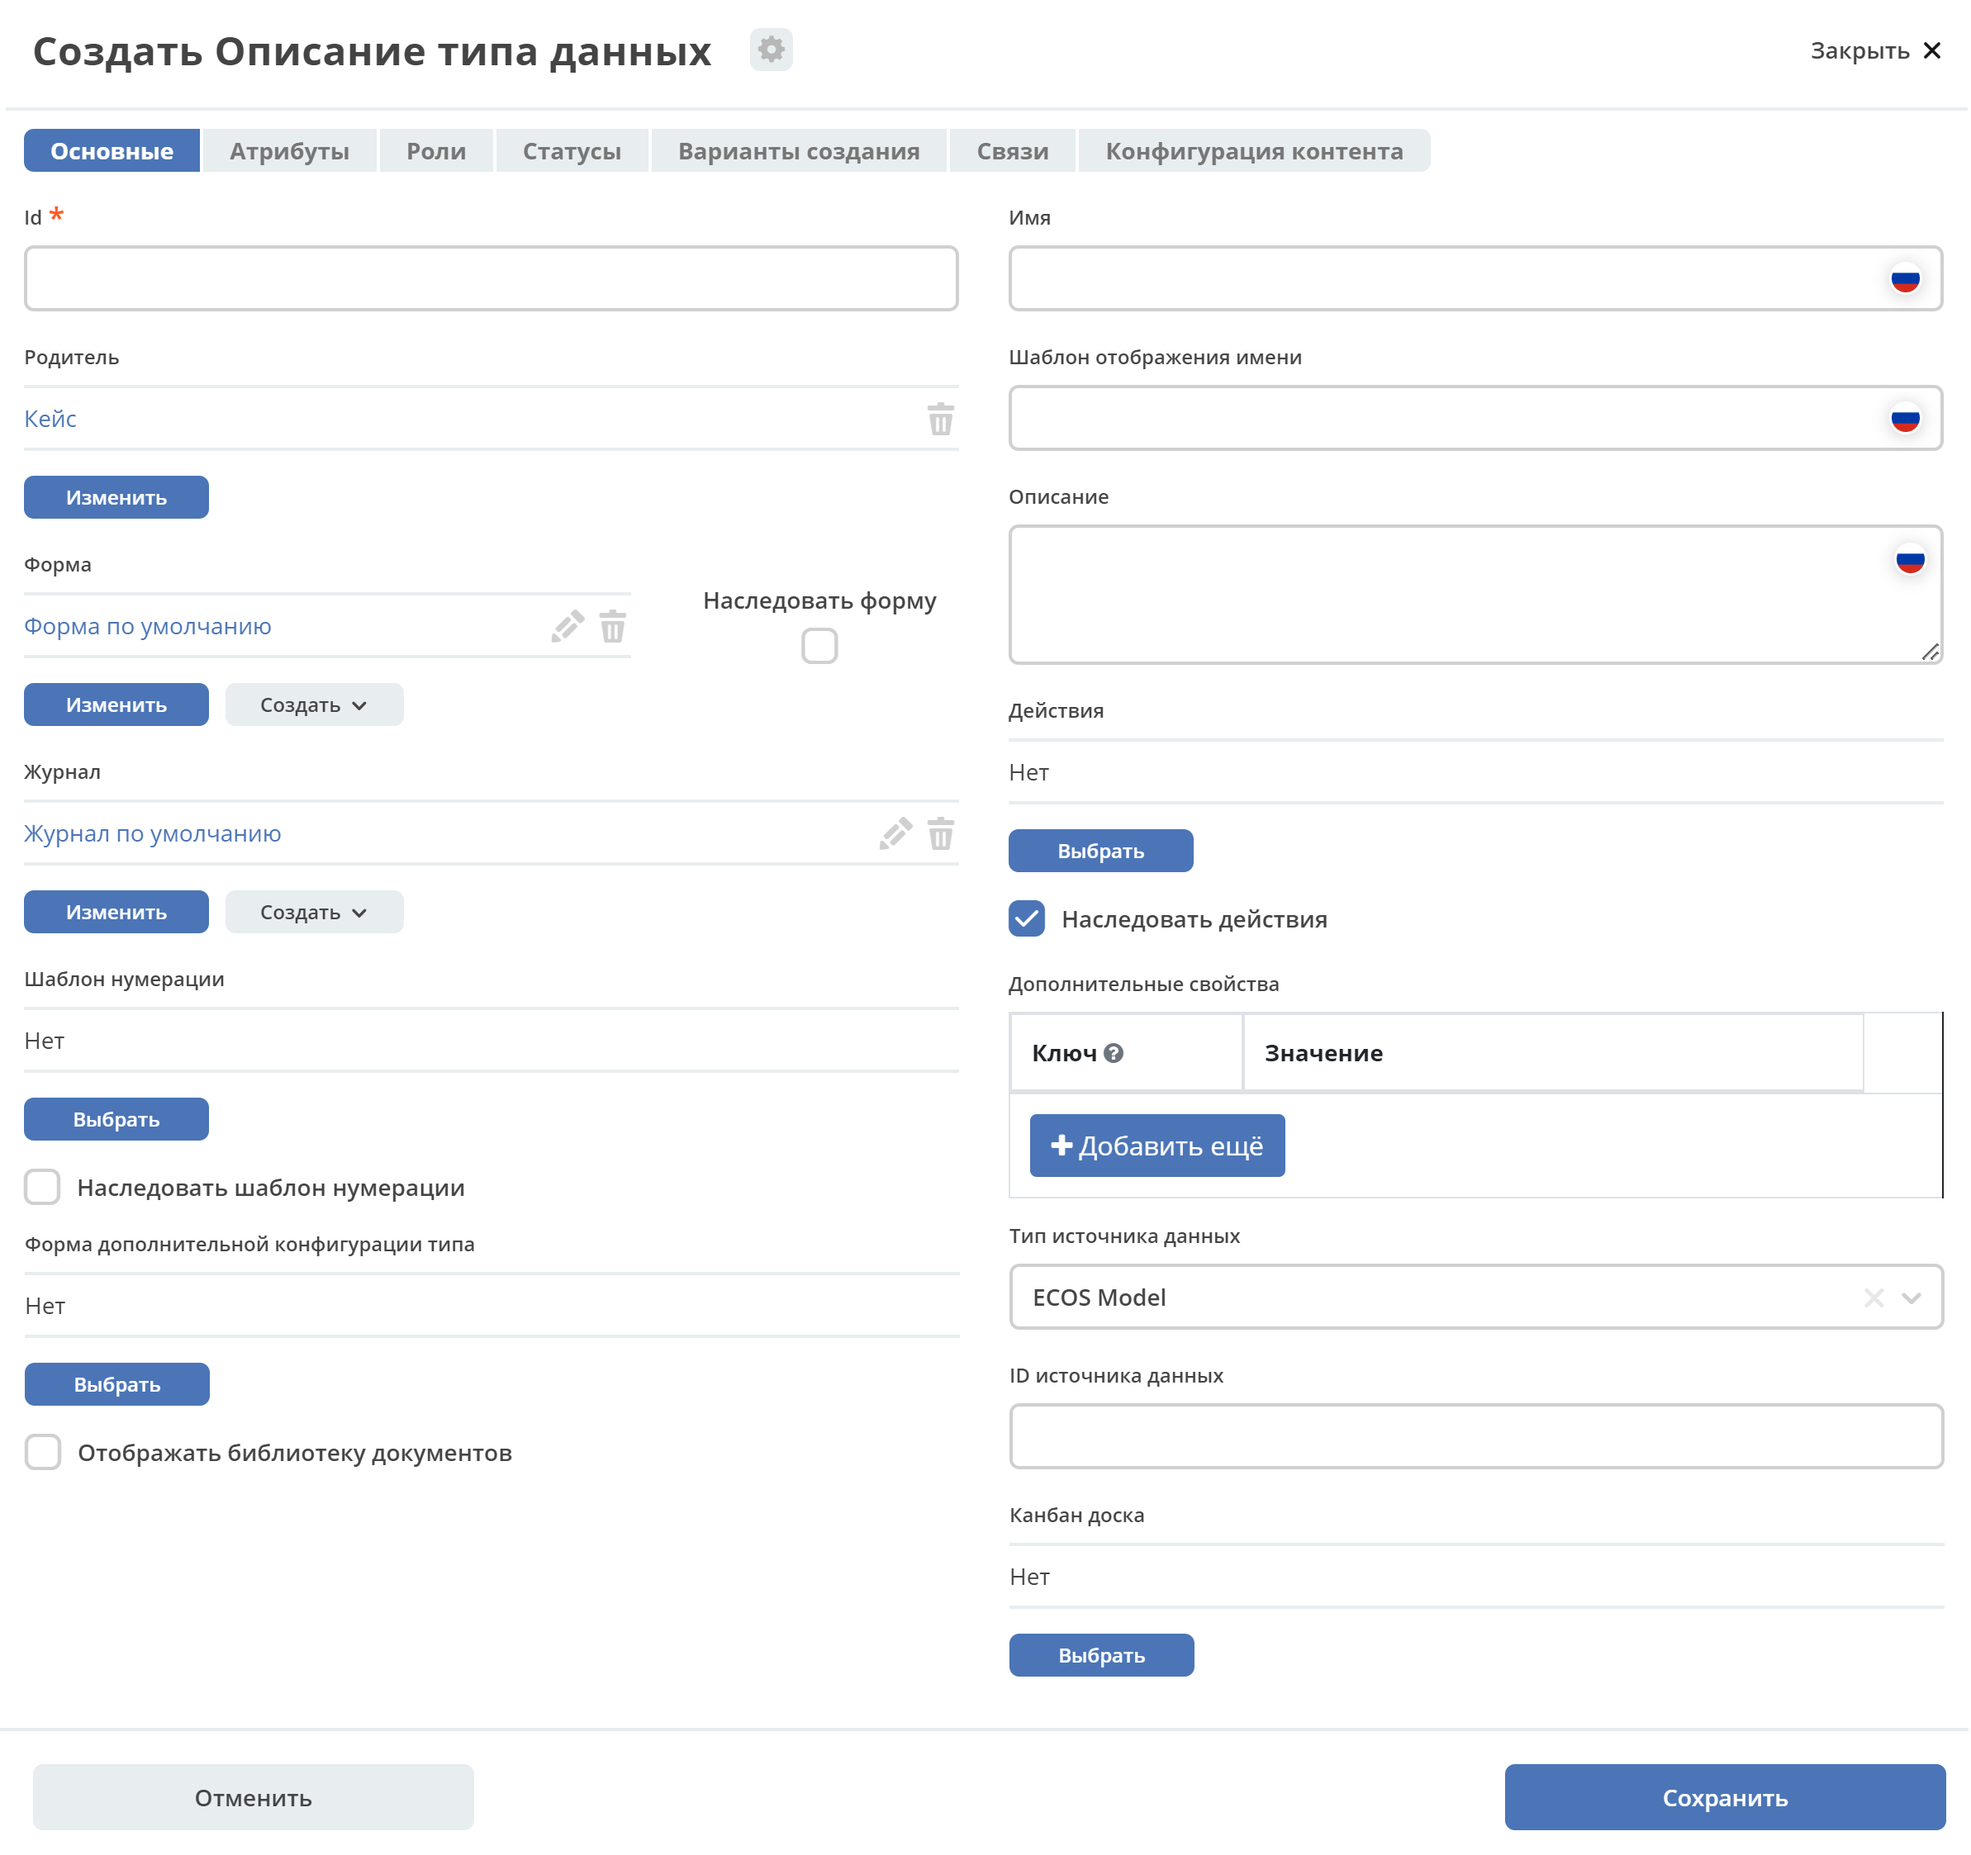
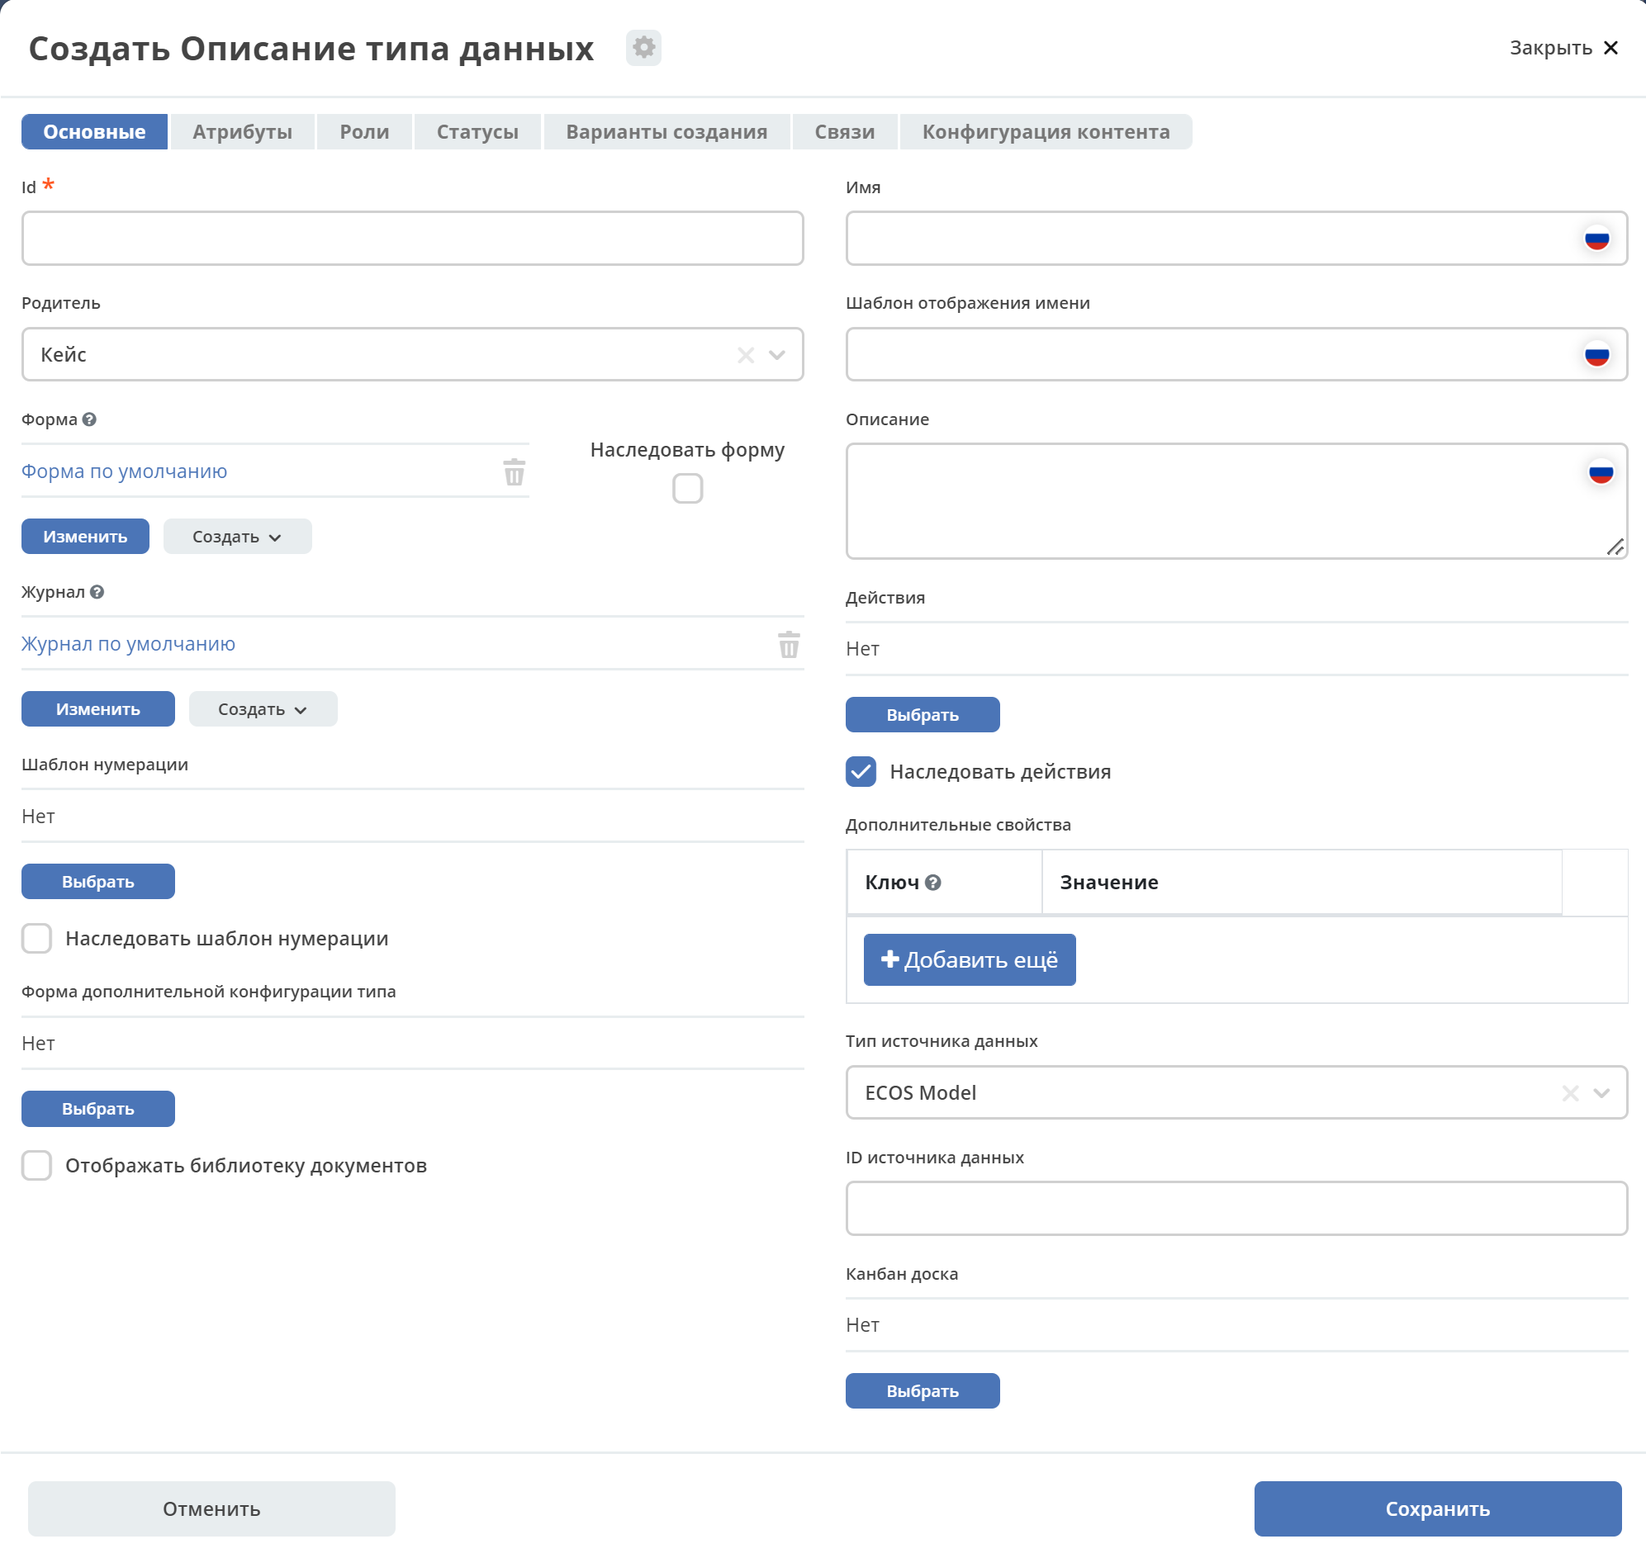
ECOSUI-2254, ECOSCOM-4895

diff --git a/docs/settings_kb/Типы_данных.rst b/docs/settings_kb/Типы_данных.rst
@@ -22,15 +22,17 @@
 
 Иерархия системных типов и логика их наследования
 ~~~~~~~~~~~~~~~~~~~~~~~~~~~~~~~~~~~~~~~~~~~~~~~~~~
+
 У каждого типа данных должен быть родитель. Базовые типы данных:
 
  .. image:: _static/data_types/type_1.png
        :width: 300
        :align: center
 
-**Даталист (справочник)** - тип для хранения наборов бизнес-данных, которые будут использоваться как статические данные для документов, не участвующие непосредственно в бизнес-процессах. Маркером того, что тип будет даталистом является указание при его создании только общей информации и перечня атрибутов.
 
-**Кейс** - тип для хранения записи, изменяемой во времени посредстовом связи ее с бизнес-процессом (не явлется статической). Маркером того, что тип будет кейсом является необходимость прикрепления к нему процесса и указания при создании общей информации, атрибутов, ролей, статусов и матрицы прав.
+**Кейс (case)** - тип для хранения записи, изменяемой во времени посредстовом связи ее с бизнес-процессом (не явлется статической). Маркером того, что тип будет кейсом является необходимость прикрепления к нему процесса и указания при создании общей информации, атрибутов, ролей, статусов и матрицы прав.
+
+**Справочник (datalist)** - тип для хранения наборов бизнес-данных, которые будут использоваться как статические данные для документов, не участвующие непосредственно в бизнес-процессах. Маркером того, что тип будет даталистом является указание при его создании только общей информации и перечня атрибутов.
 
 В качестве родителя можно использовать созданный ранее тип данных.
 
@@ -187,8 +189,10 @@
         - Тип, используемый для тестовых целей
       * - 5
         - **Родитель**
-        - тип, на основании которого, создается текущий
-        - выбирается из списка предлагаемых
+        - тип данных, на основании которого, создается текущий. 
+        - | выбирается из списка предлагаемых: 
+          | :ref:`Кейс (по умолчанию), Справочник <data_types_types>`
+          | Остальное – иные созданные ранее типы данных.
       * - 6
         - **Форма**
         - | ссылка на форму, которая будет открываться при инициировании создания записи данного типа.

diff --git a/docs/general/ECOS_Records.rst b/docs/general/ECOS_Records.rst
@@ -760,10 +760,12 @@ CRUD операции
 
 1. Значение в двойных или одинарных кавычках означает константную строку; (``some!'constant' == some|or('constant')``)
 2. При отсутствии значения парсер подбирает нужный аргумент в зависимости от скаляра перед знаком ``!``:
+   
   * ?bool! -> ``false``
   * ?json! -> ``{}``;
   * ?num! -> ``0``;
   * иначе -> ``""``.
+  
 3. null означает пустое значение; (``some!null == some|or(null)``)
 4. true или false - булево значение; (``some!true == some|or(true)``)
 5. Если первый символ число - числовое значение; (``some!123 == some|or(123)``)
